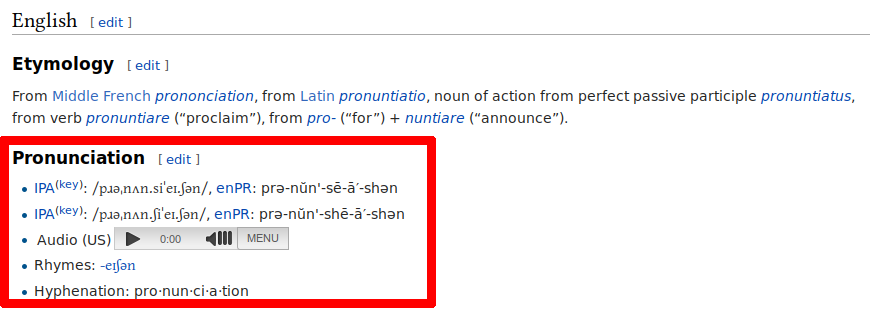
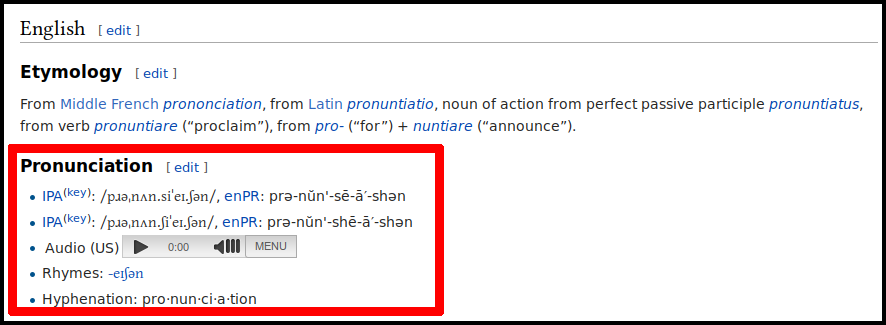
Better screenshot and README. Added how to cite.

Changed region(s): [[0.0, 0.0, 1.0, 1.0]]

diff --git a/README.md b/README.md
@@ -10,8 +10,8 @@ Mining MediaWiki dumps to create better TTS engines (using Machine Learning)
 
 ## VERY IMPORTANT NOTICE
 
-This is work in progress.
-Code, tools, APIs, etc. are subject to change without any further notice.
+**This is work in progress.**
+Code, tools, APIs, etc. are **subject to change without any further notice**.
 Use at your own risk, until v1.0.0 is released (and this notice disappears).
 Current TODO list:
 
@@ -187,9 +187,24 @@ $ bash run_sequitur.sh apply new_words.txt
 **wiktts** is released under the MIT License.
 
 
-## References
+## Citation And References
 
-See the [REFERENCES file](REFERENCES.md).
+If you use **wiktts** for a research project,
+please include a citation in your publication/documentation
+with (at least) the following information:
+
+```
+Alberto Pettarin. wiktts [VERSION_YOU_USE]. https://github.com/pettarin/wiktts (last access: 2016-MM-DD).
+```
+
+For example:
+
+```
+Alberto Pettarin. wiktts v0.0.8. https://github.com/pettarin/wiktts (last access: 2016-06-01).
+```
+
+For a list of resources used to design and implement **wiktts**,
+please consult the [REFERENCES file](REFERENCES.md).
 
 
 ## Acknowledgments
